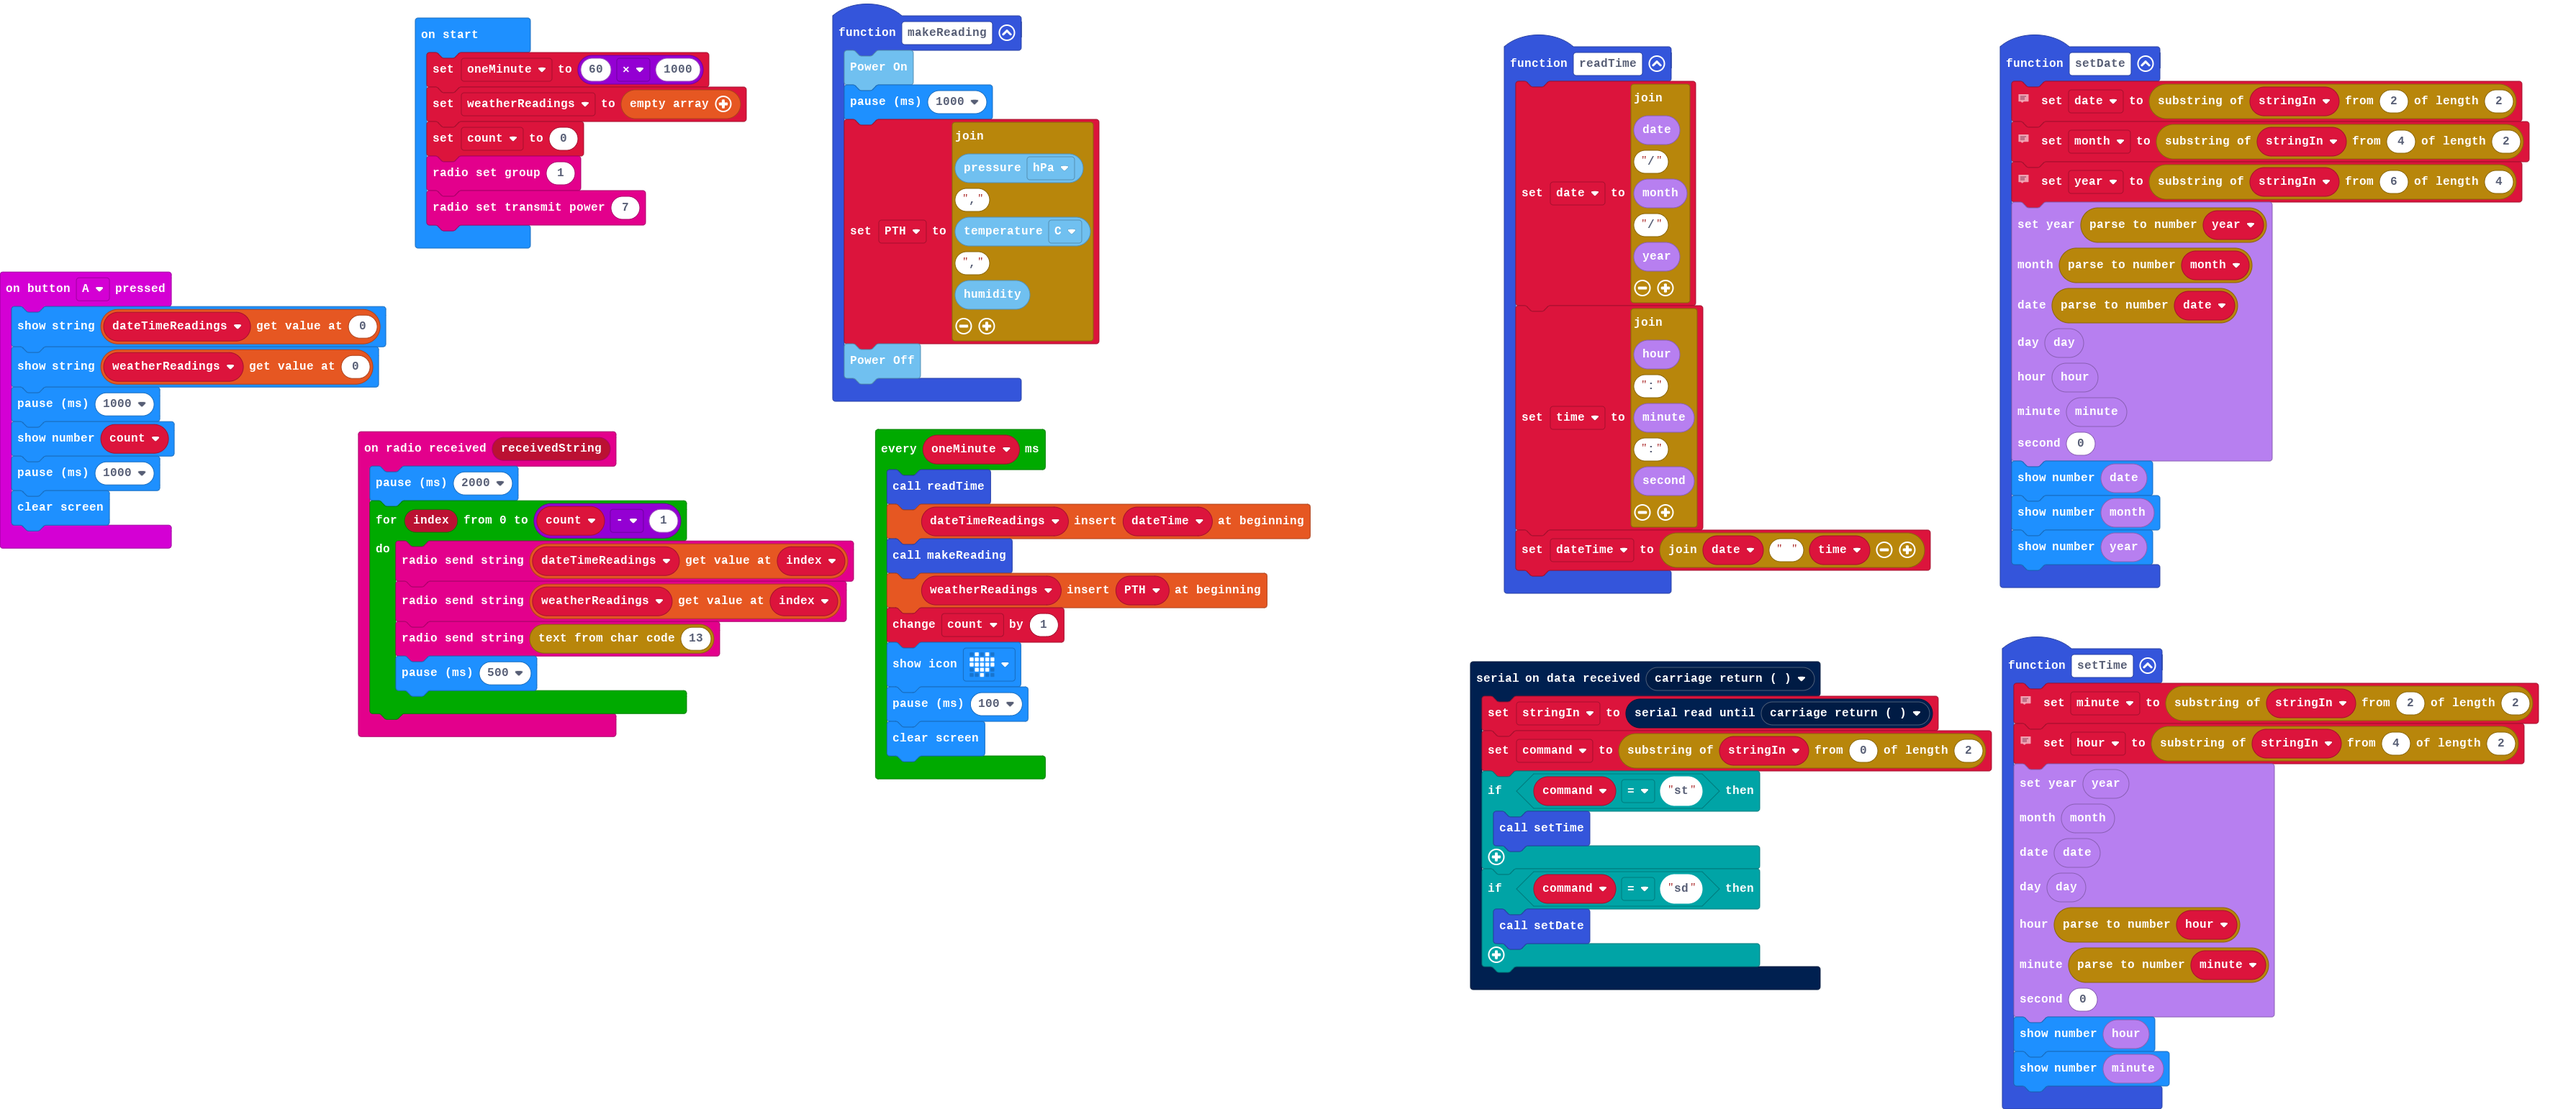
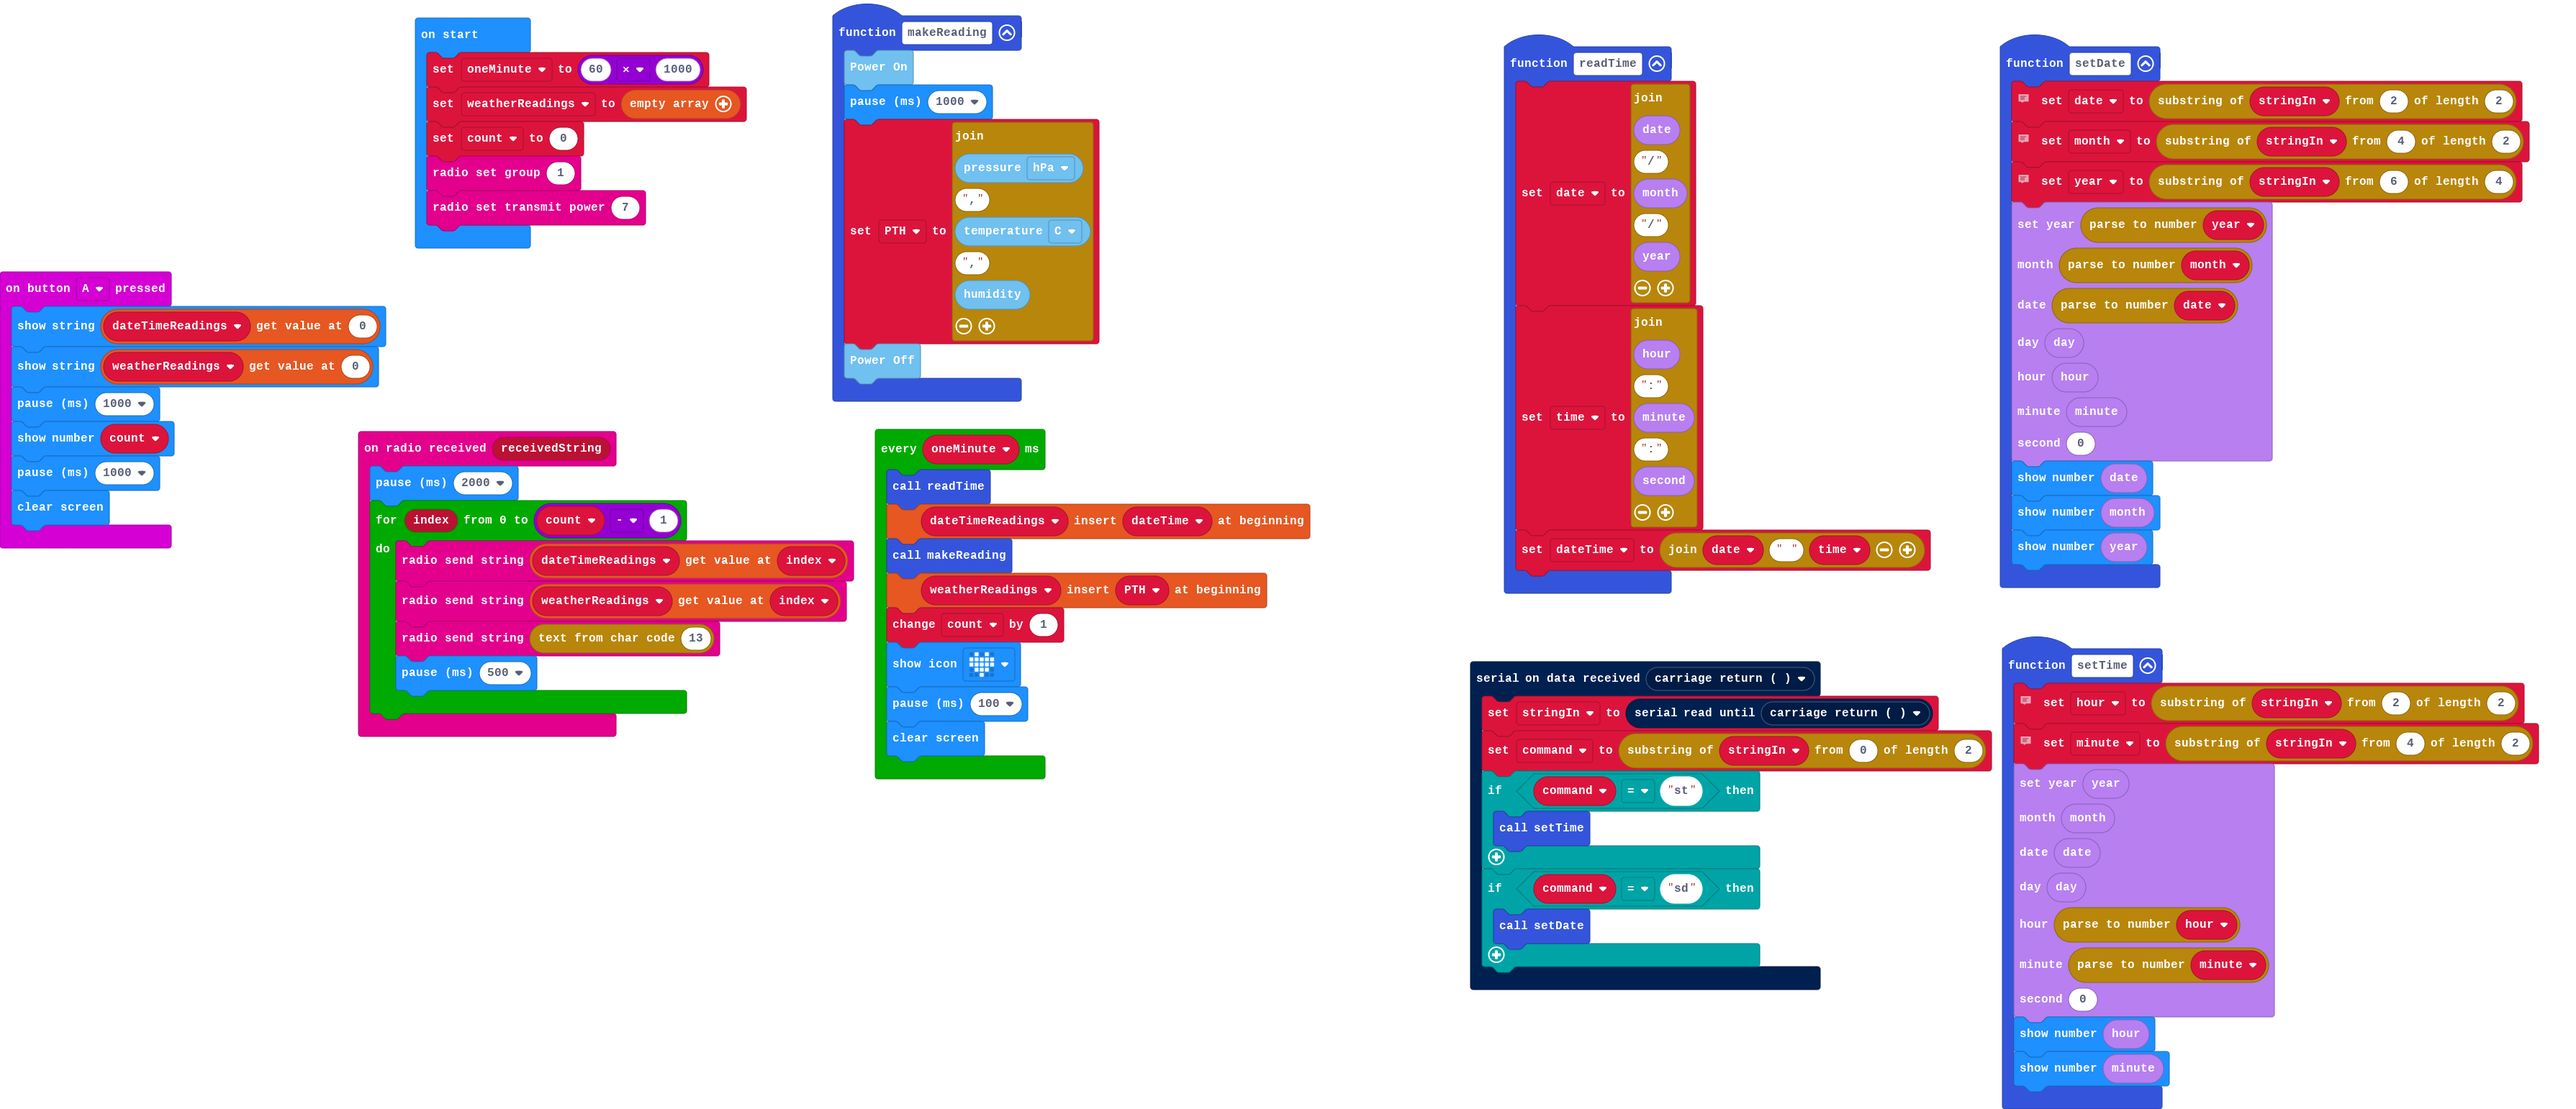
fixed set time

Changed region(s): [[0.8064, 0.6226, 0.9925, 0.6848]]

diff --git a/main.ts b/main.ts
@@ -39,9 +39,9 @@ function setDate () {
 }
 function setTime () {
     // the first 2 characters after command
-    minute = stringIn.substr(2, 2)
+    hour = stringIn.substr(2, 2)
     // the next 2 characters command
-    hour = stringIn.substr(4, 2)
+    minute = stringIn.substr(4, 2)
     DS3231.dateTime(
     DS3231.year(),
     DS3231.month(),
@@ -74,8 +74,8 @@ serial.onDataReceived(serial.delimiters(Delimiters.CarriageReturn), function () 
     }
 })
 let command = ""
-let hour = ""
 let minute = ""
+let hour = ""
 let year = ""
 let month = ""
 let stringIn = ""
